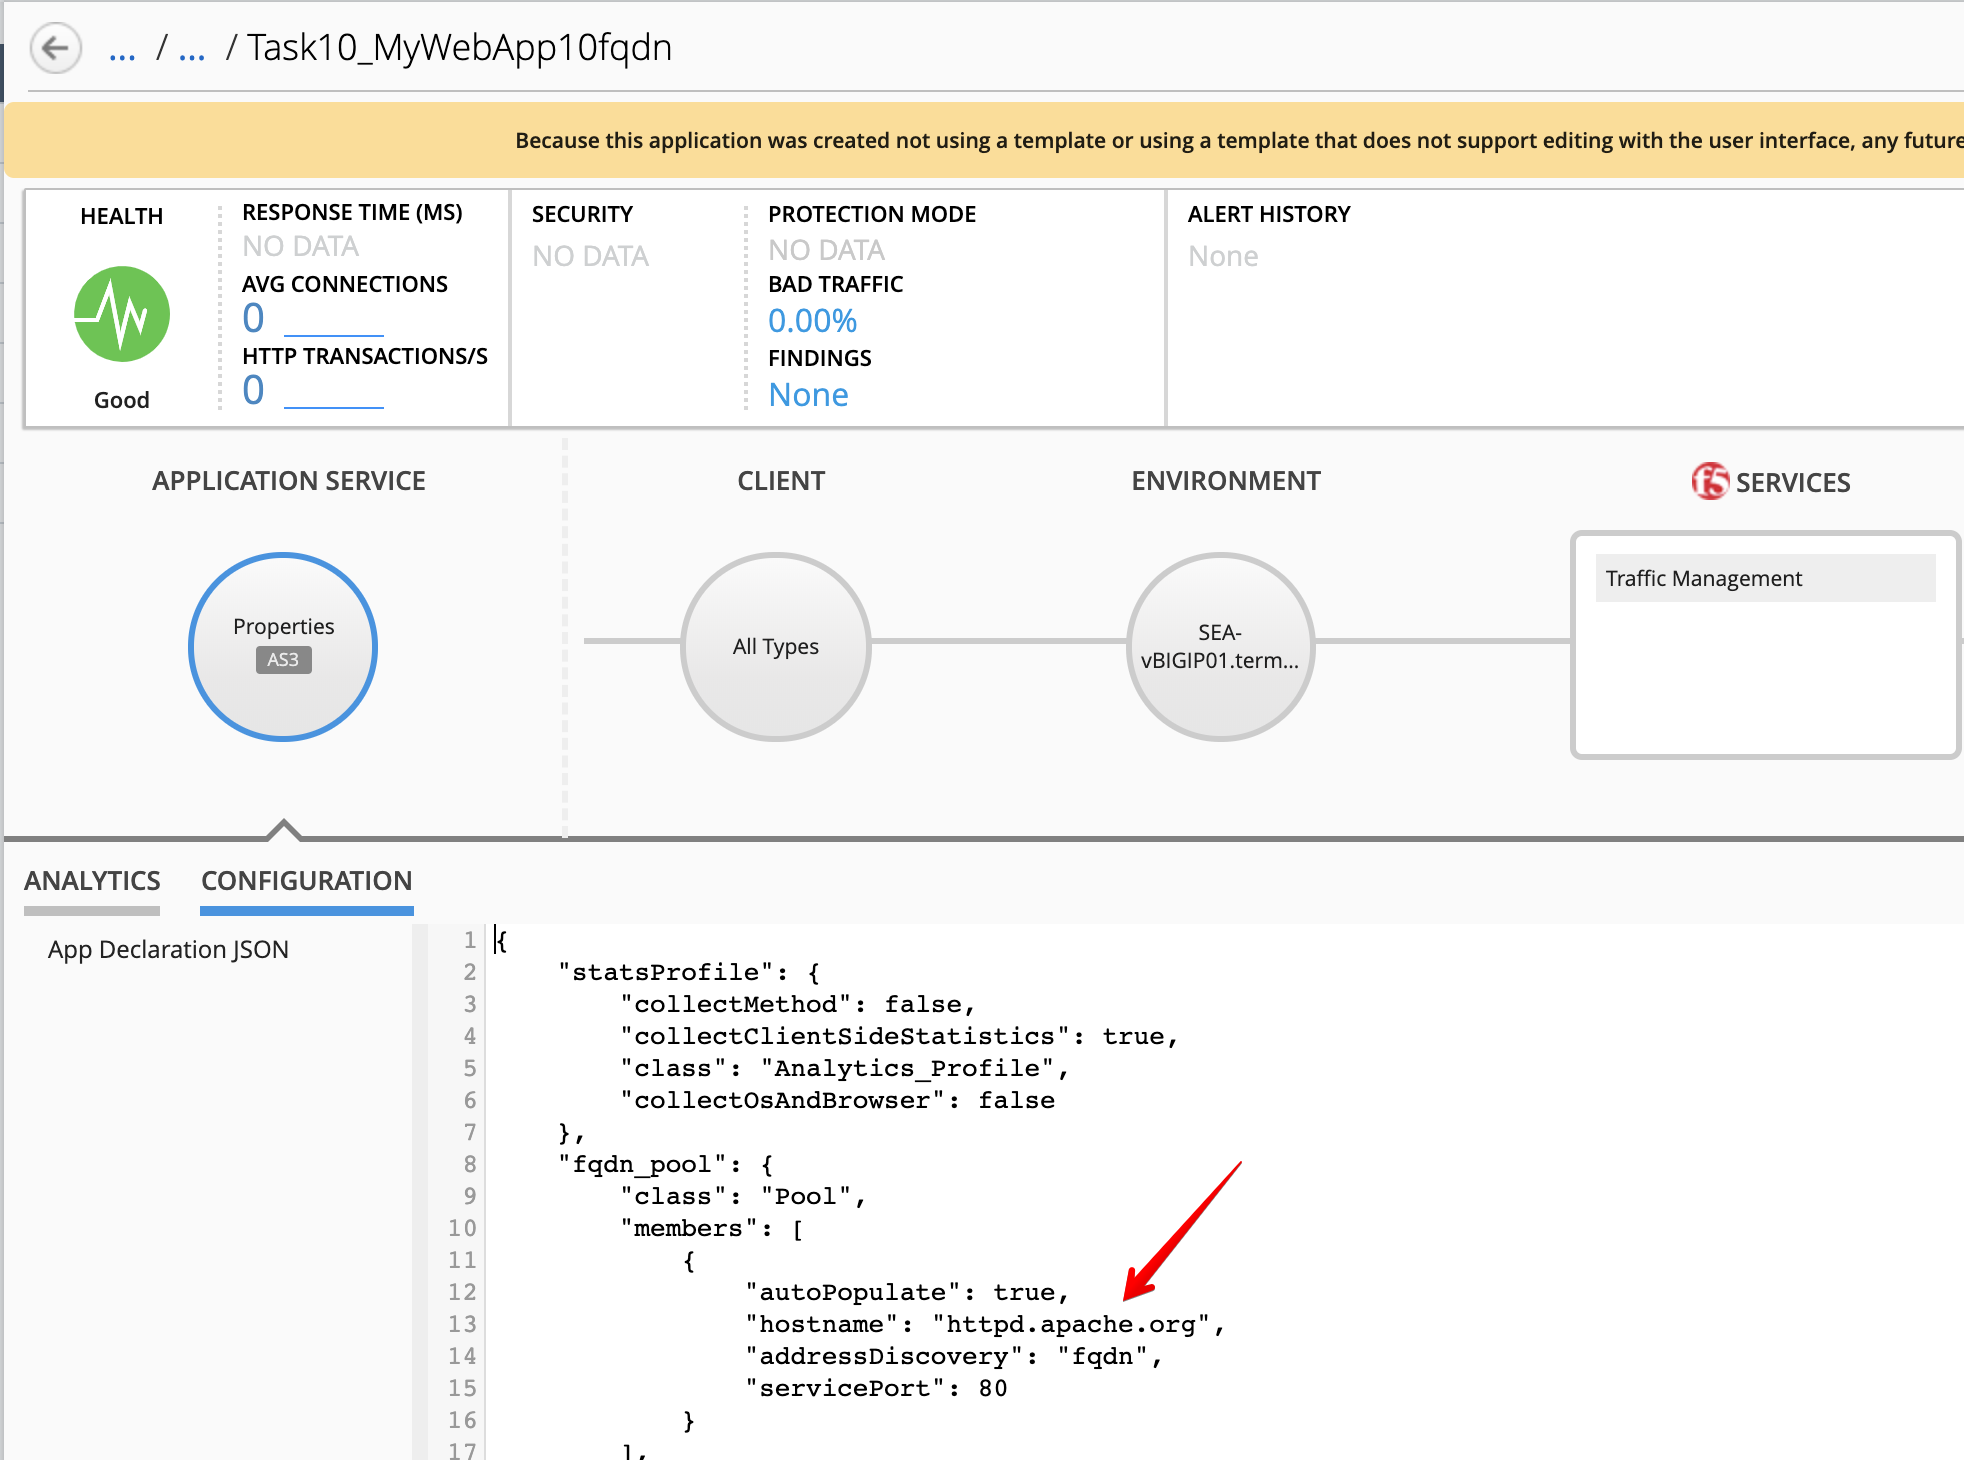
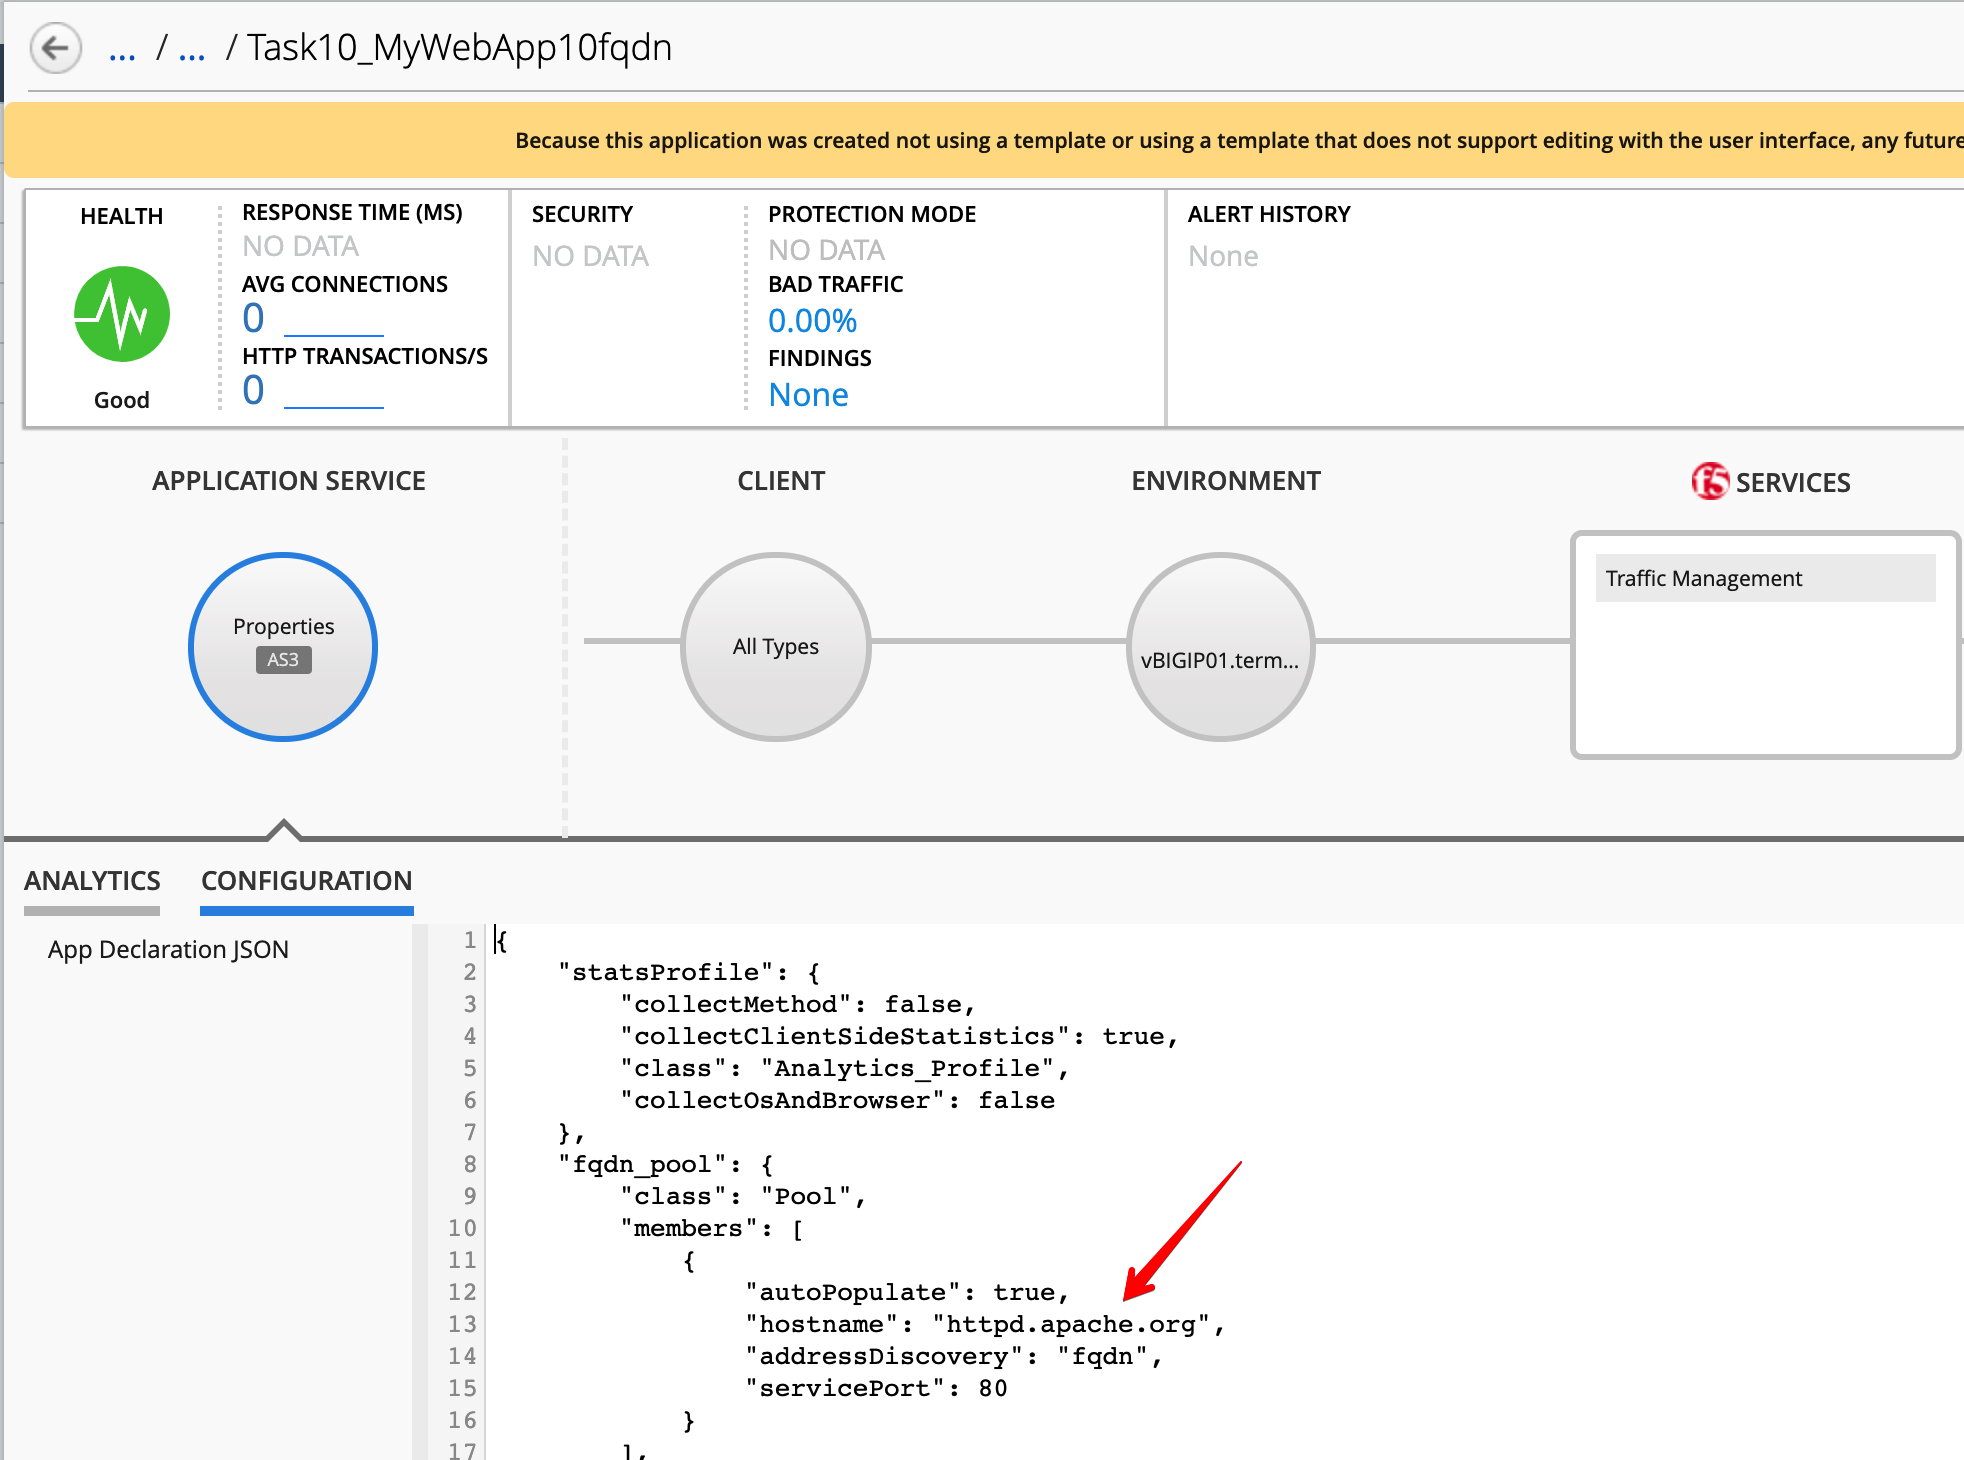
continue working on AWS UDF BP

diff --git a/docs/class1/module5/lab1.rst b/docs/class1/module5/lab1.rst
@@ -69,7 +69,7 @@ This declaration will create an HTTP application on BIG-IQ using an HTTP templat
            "label": "Task1",
            "remark": "Task 1 - HTTP Application Service",
            "target": {
-               "hostname": "<hostname>"
+               "address": "<BIG-IP ip address>"
            },
            "Task1": {
                "class": "Tenant",
@@ -116,7 +116,7 @@ This declaration will create an HTTP application on BIG-IQ using an HTTP templat
 2. Now that the AS3 declation is validated, let's add the target (BIG-IP device)::
 
     "target": {
-        "hostname": "BOS-vBIGIP01.termmarc.com"
+        "address": "10.1.1.8"
     },
 
 .. note:: The target BIG-IP is standalone but it could be configured as an HA pair.
@@ -184,7 +184,7 @@ Copy/Paste the below AS3 declaration into the body (Postman):
            "label": "Task2",
            "remark": "Task 2 - HTTPS Application Service",
            "target": {
-               "hostname": "BOS-vBIGIP01.termmarc.com"
+               "address": "10.1.1.8"
            },
            "Task2": {
                "class": "Tenant",
@@ -290,7 +290,7 @@ Update the WAF policy section below with the policy available on BIG-IP::
            "label": "Task3a",
            "remark": "Task 3a - HTTPS Application with WAF",
            "target": {
-               "hostname": "BOS-vBIGIP01.termmarc.com"
+               "address": "10.1.1.8"
            },
            "Task3": {
                "class": "Tenant",
@@ -404,7 +404,7 @@ Modify the Generic virtual with something other than <generic_virtual>.
            "label": "Task4",
            "remark": "Task 4 - Generic Services",
            "target": {
-               "hostname": "BOS-vBIGIP01.termmarc.com"
+               "address": "10.1.1.8"
            },
            "Task4": {
                "class": "Tenant",

diff --git a/docs/class4/module4/lab2.rst b/docs/class4/module4/lab2.rst
@@ -100,7 +100,7 @@ BIG-IQ HA Settings delivers a bit more detail and also shows us the configured f
            "label": "Task1",
            "remark": "Task 1 - HTTP Application Service",
            "target": {
-               "hostname": "BOS-vBIGIP01.termmarc.com"
+               "address": "10.1.1.8"
            },
            "Task1": {
                "class": "Tenant",
@@ -165,7 +165,7 @@ POST ``https\:\/\/10.1.1.15/mgmt/shared/appsvcs/declare?async=true`` and Check i
         "label": "delete",
         "remark": "delete",
         "target": {
-            "hostname": "BOS-vBIGIP01.termmarc.com"
+            "address": "10.1.1.8"
         },
         "apptesting": {
             "class": "Tenant"

diff --git a/docs/class1/module4/lab2.rst b/docs/class1/module4/lab2.rst
@@ -17,4 +17,4 @@ To help identify this application when you want to use it later, in the Descript
 
 For Device, select the name of the device you want to deploy this application to. (if the HTTP statistics are not enabled, they can be enabled later on after the application is deployed)
 
-- BIG-IP: Select ``SEA-vBIGIP01.termmarc.com`` and check ``Collect HTTP Statistics``
+- BIG-IP: Select ``BOS-vBIGIP01.termmarc.com`` and check ``Collect HTTP Statistics``

diff --git a/docs/class1/module5/lab7.rst b/docs/class1/module5/lab7.rst
@@ -129,7 +129,7 @@ Execute the playbooks for each tasks.
 
   Connect as **david** on BIG-IQ.
 
-  Here, we empty the tenant/partition Task1. This should remove those partitions from SEA-vBIGIP01.termmarc.com. The relevant Apps 
+  Here, we empty the tenant/partition Task1. This should remove those partitions from BOS-vBIGIP01.termmarc.com. The relevant Apps 
   should also disappear from BIG-IQ. 
 
 .. |lab-3-1| image:: ../pictures/module5/lab-3-1.png

diff --git a/docs/class1/module5/lab4.rst b/docs/class1/module5/lab4.rst
@@ -33,7 +33,7 @@ POST https\:\/\/10.1.1.4/mgmt/shared/appsvcs/declare?async=true
            "label": "Task9",
            "remark": "Task 9 - Delete Tenants",
            "target": {
-               "hostname": "BOS-vBIGIP01.termmarc.com"
+               "address": "10.1.1.8"
            },
            "Task1": {
                "class": "Tenant"

diff --git a/docs/class1/module5/lab3.rst b/docs/class1/module5/lab3.rst
@@ -270,7 +270,7 @@ POST https\:\/\/10.1.1.4/mgmt/shared/appsvcs/declare?async=true
             "id": "isc-lab",
             "label": "Task8",
             "target": {
-                "hostname": "BOS-vBIGIP01.termmarc.com"
+                "address": "10.1.1.8"
             },
             "Task8": {
                 "class": "Tenant",
